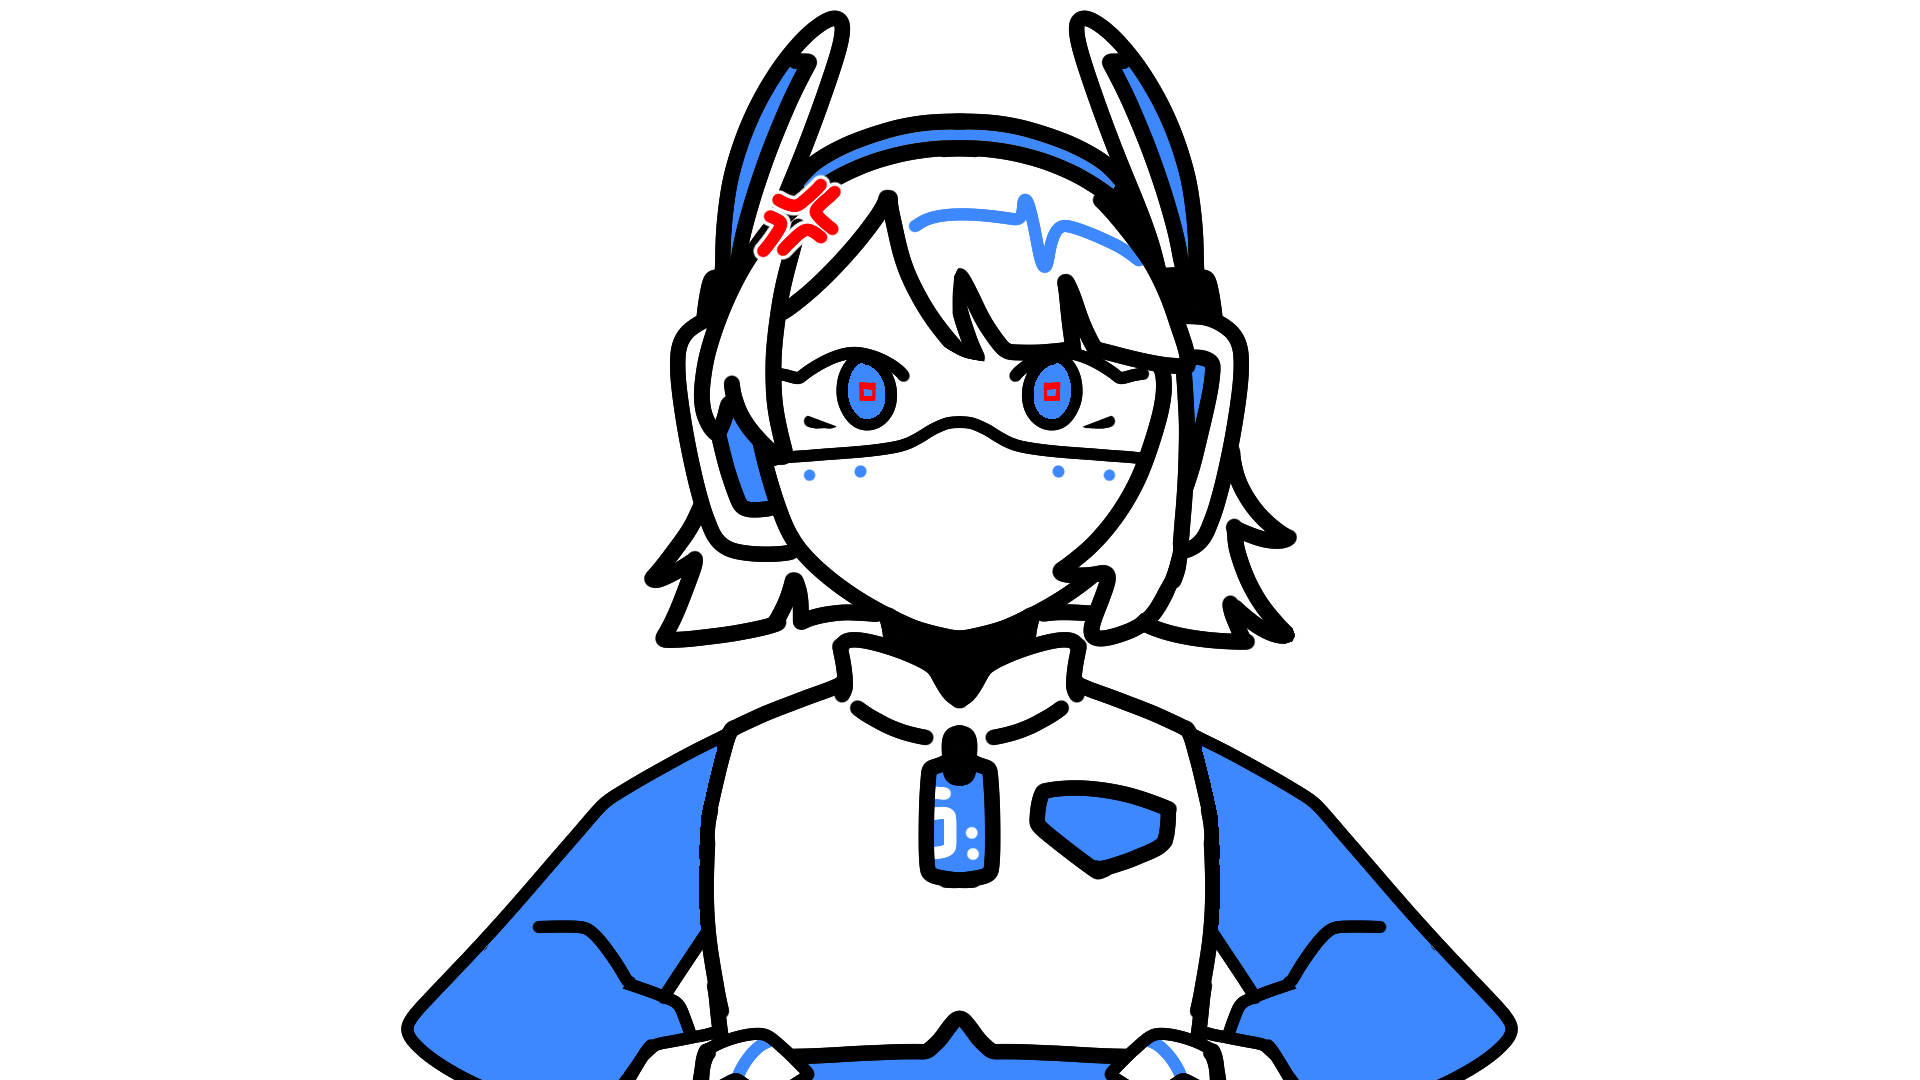
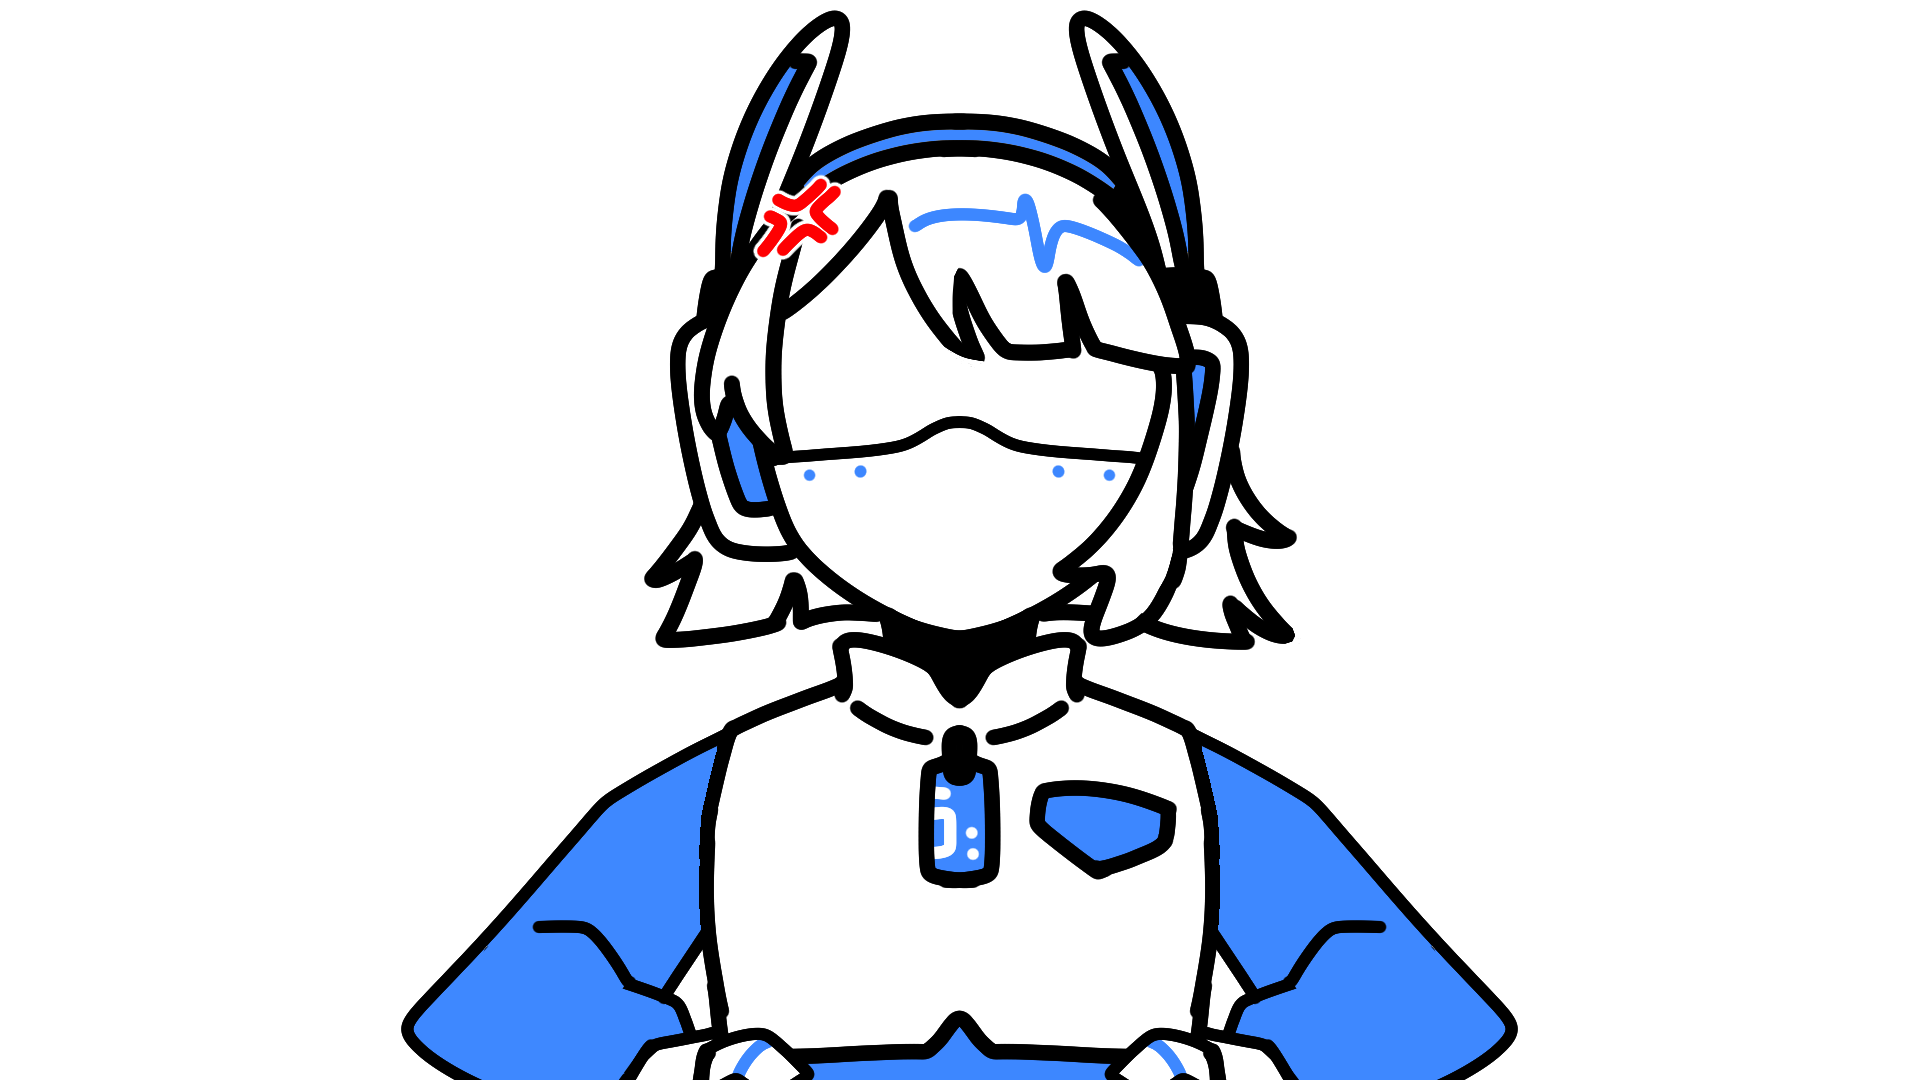
Implement separated eye layer (for blinking later)

Changed region(s): [[0.5312, 0.3056, 0.5938, 0.3972], [0.4062, 0.3056, 0.4688, 0.3972]]

diff --git a/Visuals/character.py b/Visuals/character.py
@@ -42,12 +42,15 @@ class Character(pygame.sprite.Sprite):
         self.asset_path = os.path.join(os.getcwd(), "Visuals", "assets", self.character_name)
         self.base_images = {}
         self.mouth_images = {}
+        self.eye_images = {}
         for m in self.mood.states:
             self.base_images[f'{m.name}'] = pygame.image.load(os.path.join(self.asset_path, m.name + ".png"))
             self.mouth_images[f'{m.name}_open'] = pygame.image.load(os.path.join(self.asset_path, m.name + "_mouth_open.png"))
             self.mouth_images[f'{m.name}_closed'] = pygame.image.load(os.path.join(self.asset_path, m.name + "_mouth_closed.png"))
+            self.eye_images[f'{m.name}'] = pygame.image.load(os.path.join(self.asset_path, m.name + "_eyes.png"))
         self.base_image = self.base_images[self.default_mood.name]
         self.mouth_image = self.mouth_images[self.default_mood.name + "_closed"]
+        self.eye_image = self.eye_images[self.default_mood.name]
 
         # Image display
         self.screen = screen
@@ -105,9 +108,9 @@ class Character(pygame.sprite.Sprite):
     def update(self):
         current_mood = self.mood.current_state.name
 
-        self.base_image = self.base_images[f'{current_mood}']
+        self.base_image, self.eye_image = self.base_images[f'{current_mood}'], self.eye_images[f'{current_mood}']
         self.mouth_image = self.mouth_images[f'{current_mood}_open'] if (self.is_speaking.current_state.name == "speaking") else self.mouth_images[f'{current_mood}_closed']
-        
+
         # if currently playing audio, remain same
         if (pygame.mixer.get_busy() == True):
             pass
@@ -128,3 +131,4 @@ class Character(pygame.sprite.Sprite):
     def draw(self):
         self.screen.blit(self.base_image, self.rect)
         self.screen.blit(self.mouth_image, self.rect)
+        self.screen.blit(self.eye_image, self.rect)

diff --git a/Visuals/run_visuals.py b/Visuals/run_visuals.py
@@ -4,7 +4,7 @@ import character as char
 def visuals_initialisation():
     pygame.init()
     pygame.mixer.init()
-    screen = pygame.display.set_mode((1920,1200)) # TODO: set screen size to fill
+    screen = pygame.display.set_mode((960,600)) # TODO: set screen size to fill
     pygame.display.set_caption("Visual Interaction Endpoint")
     character = char.Character(screen, "audio")
     running = True
